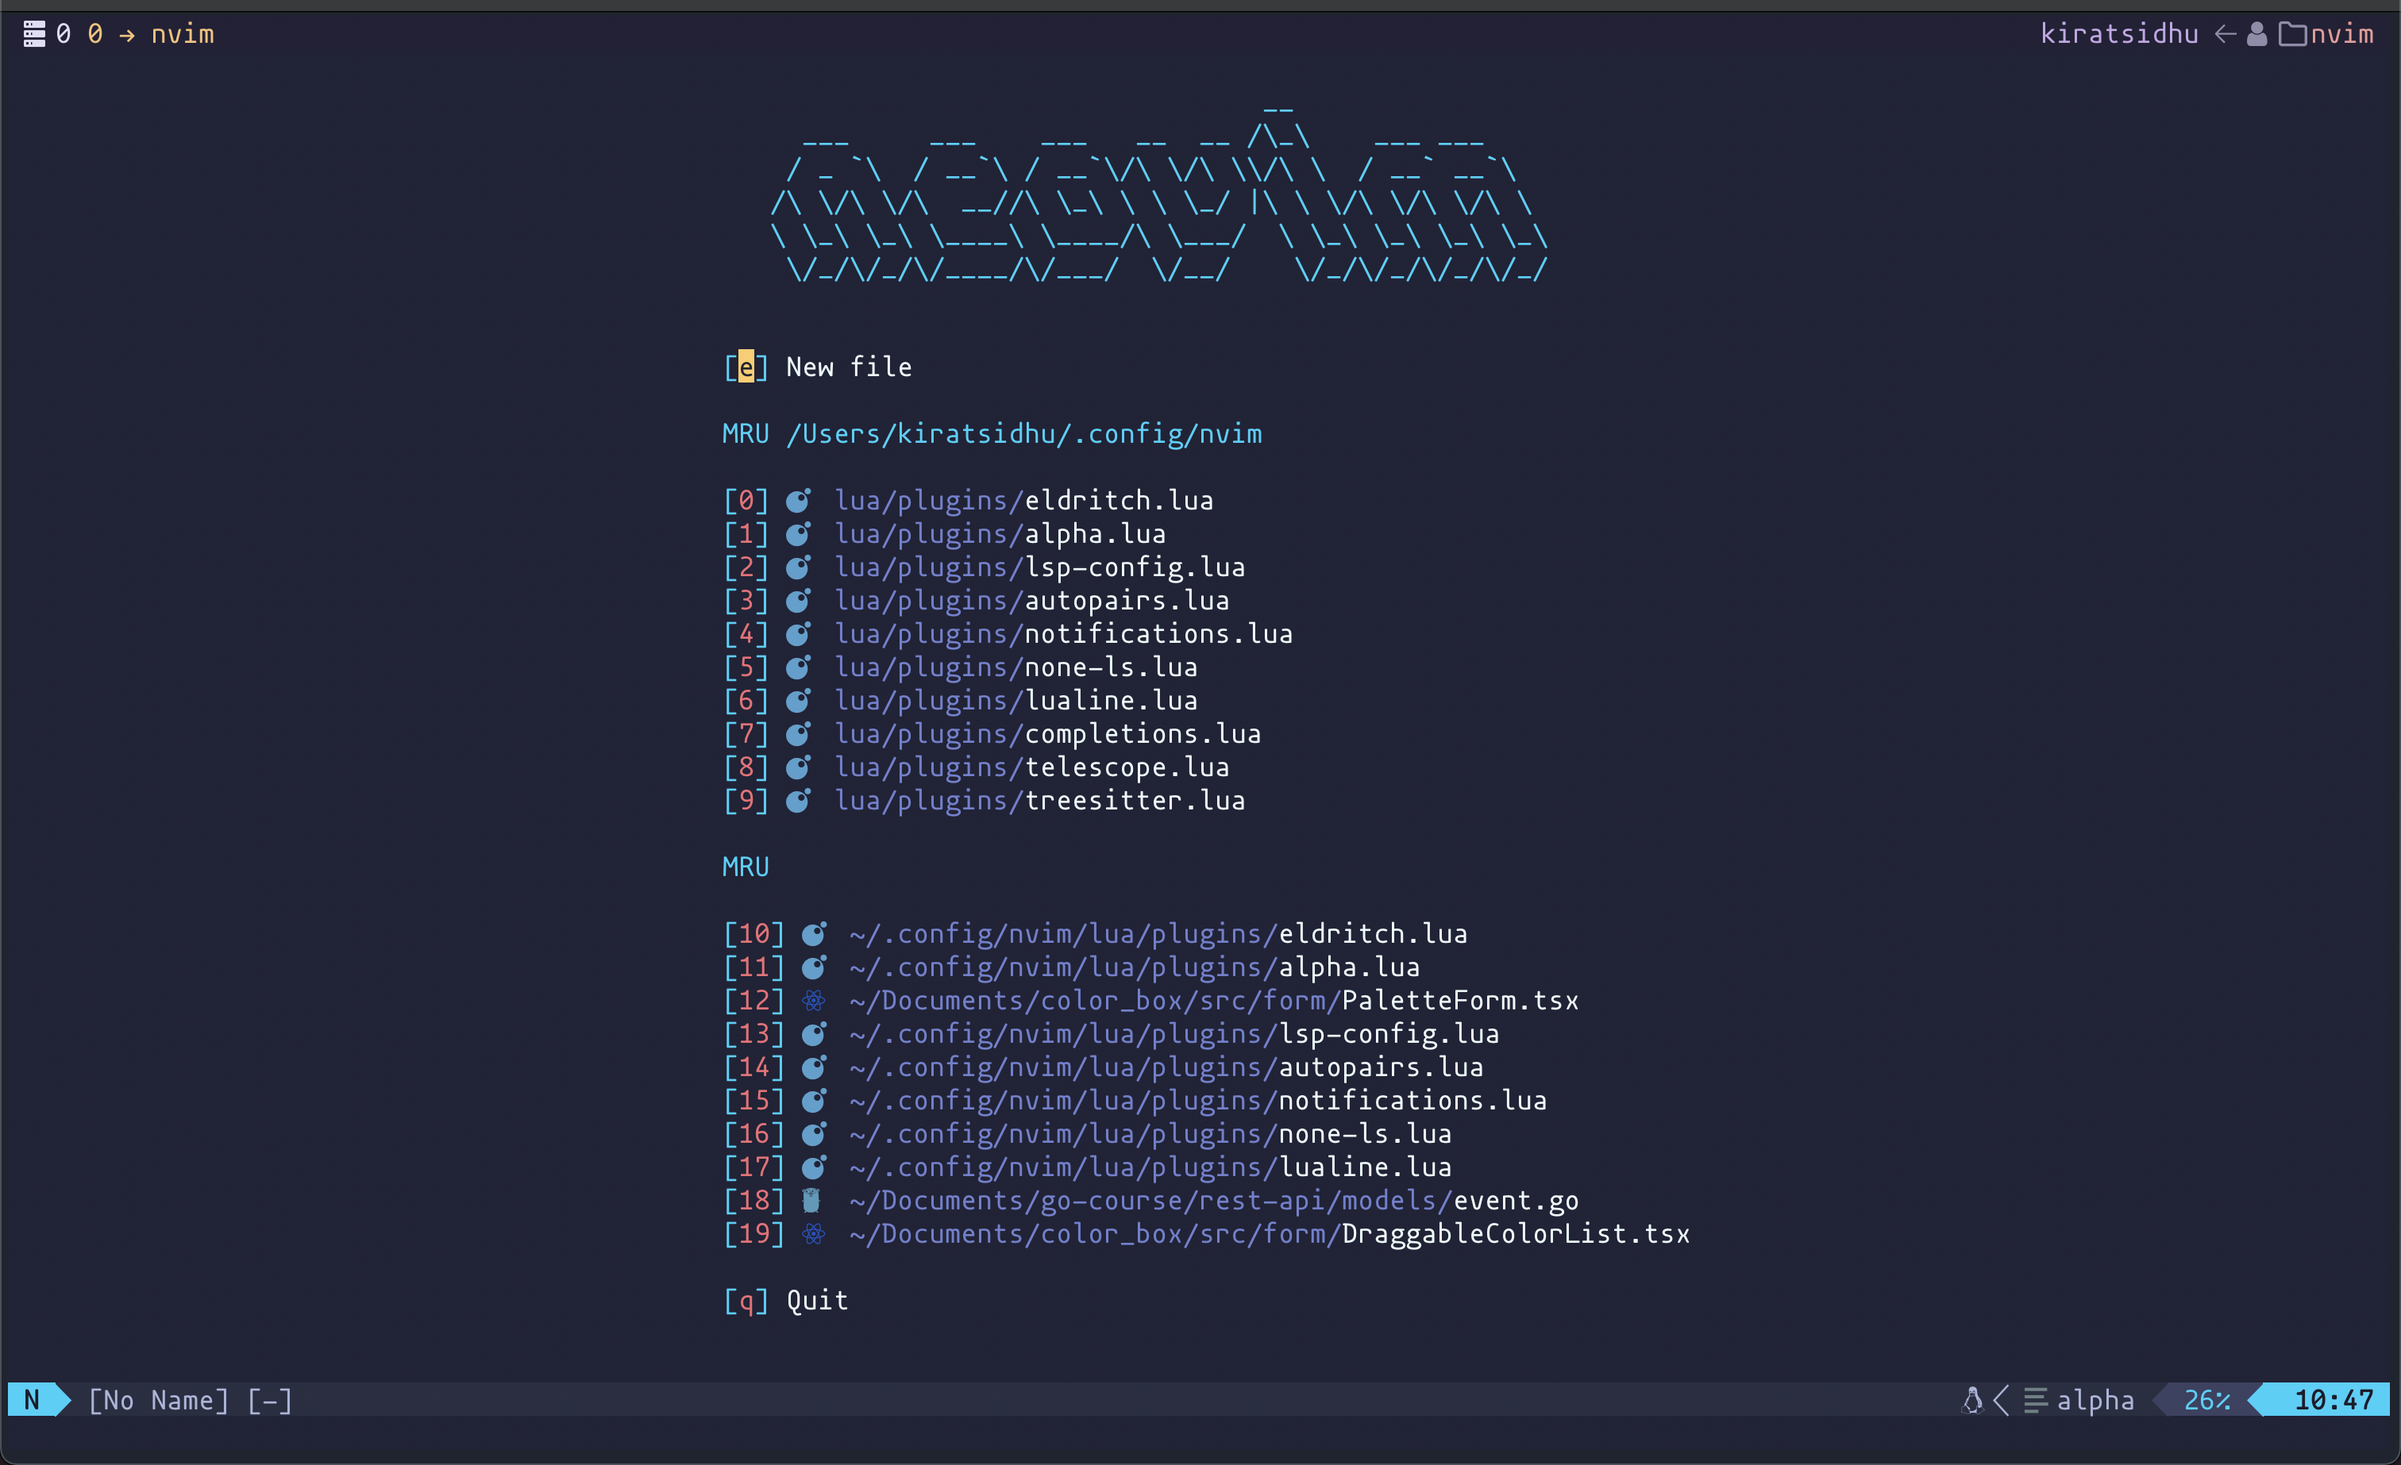
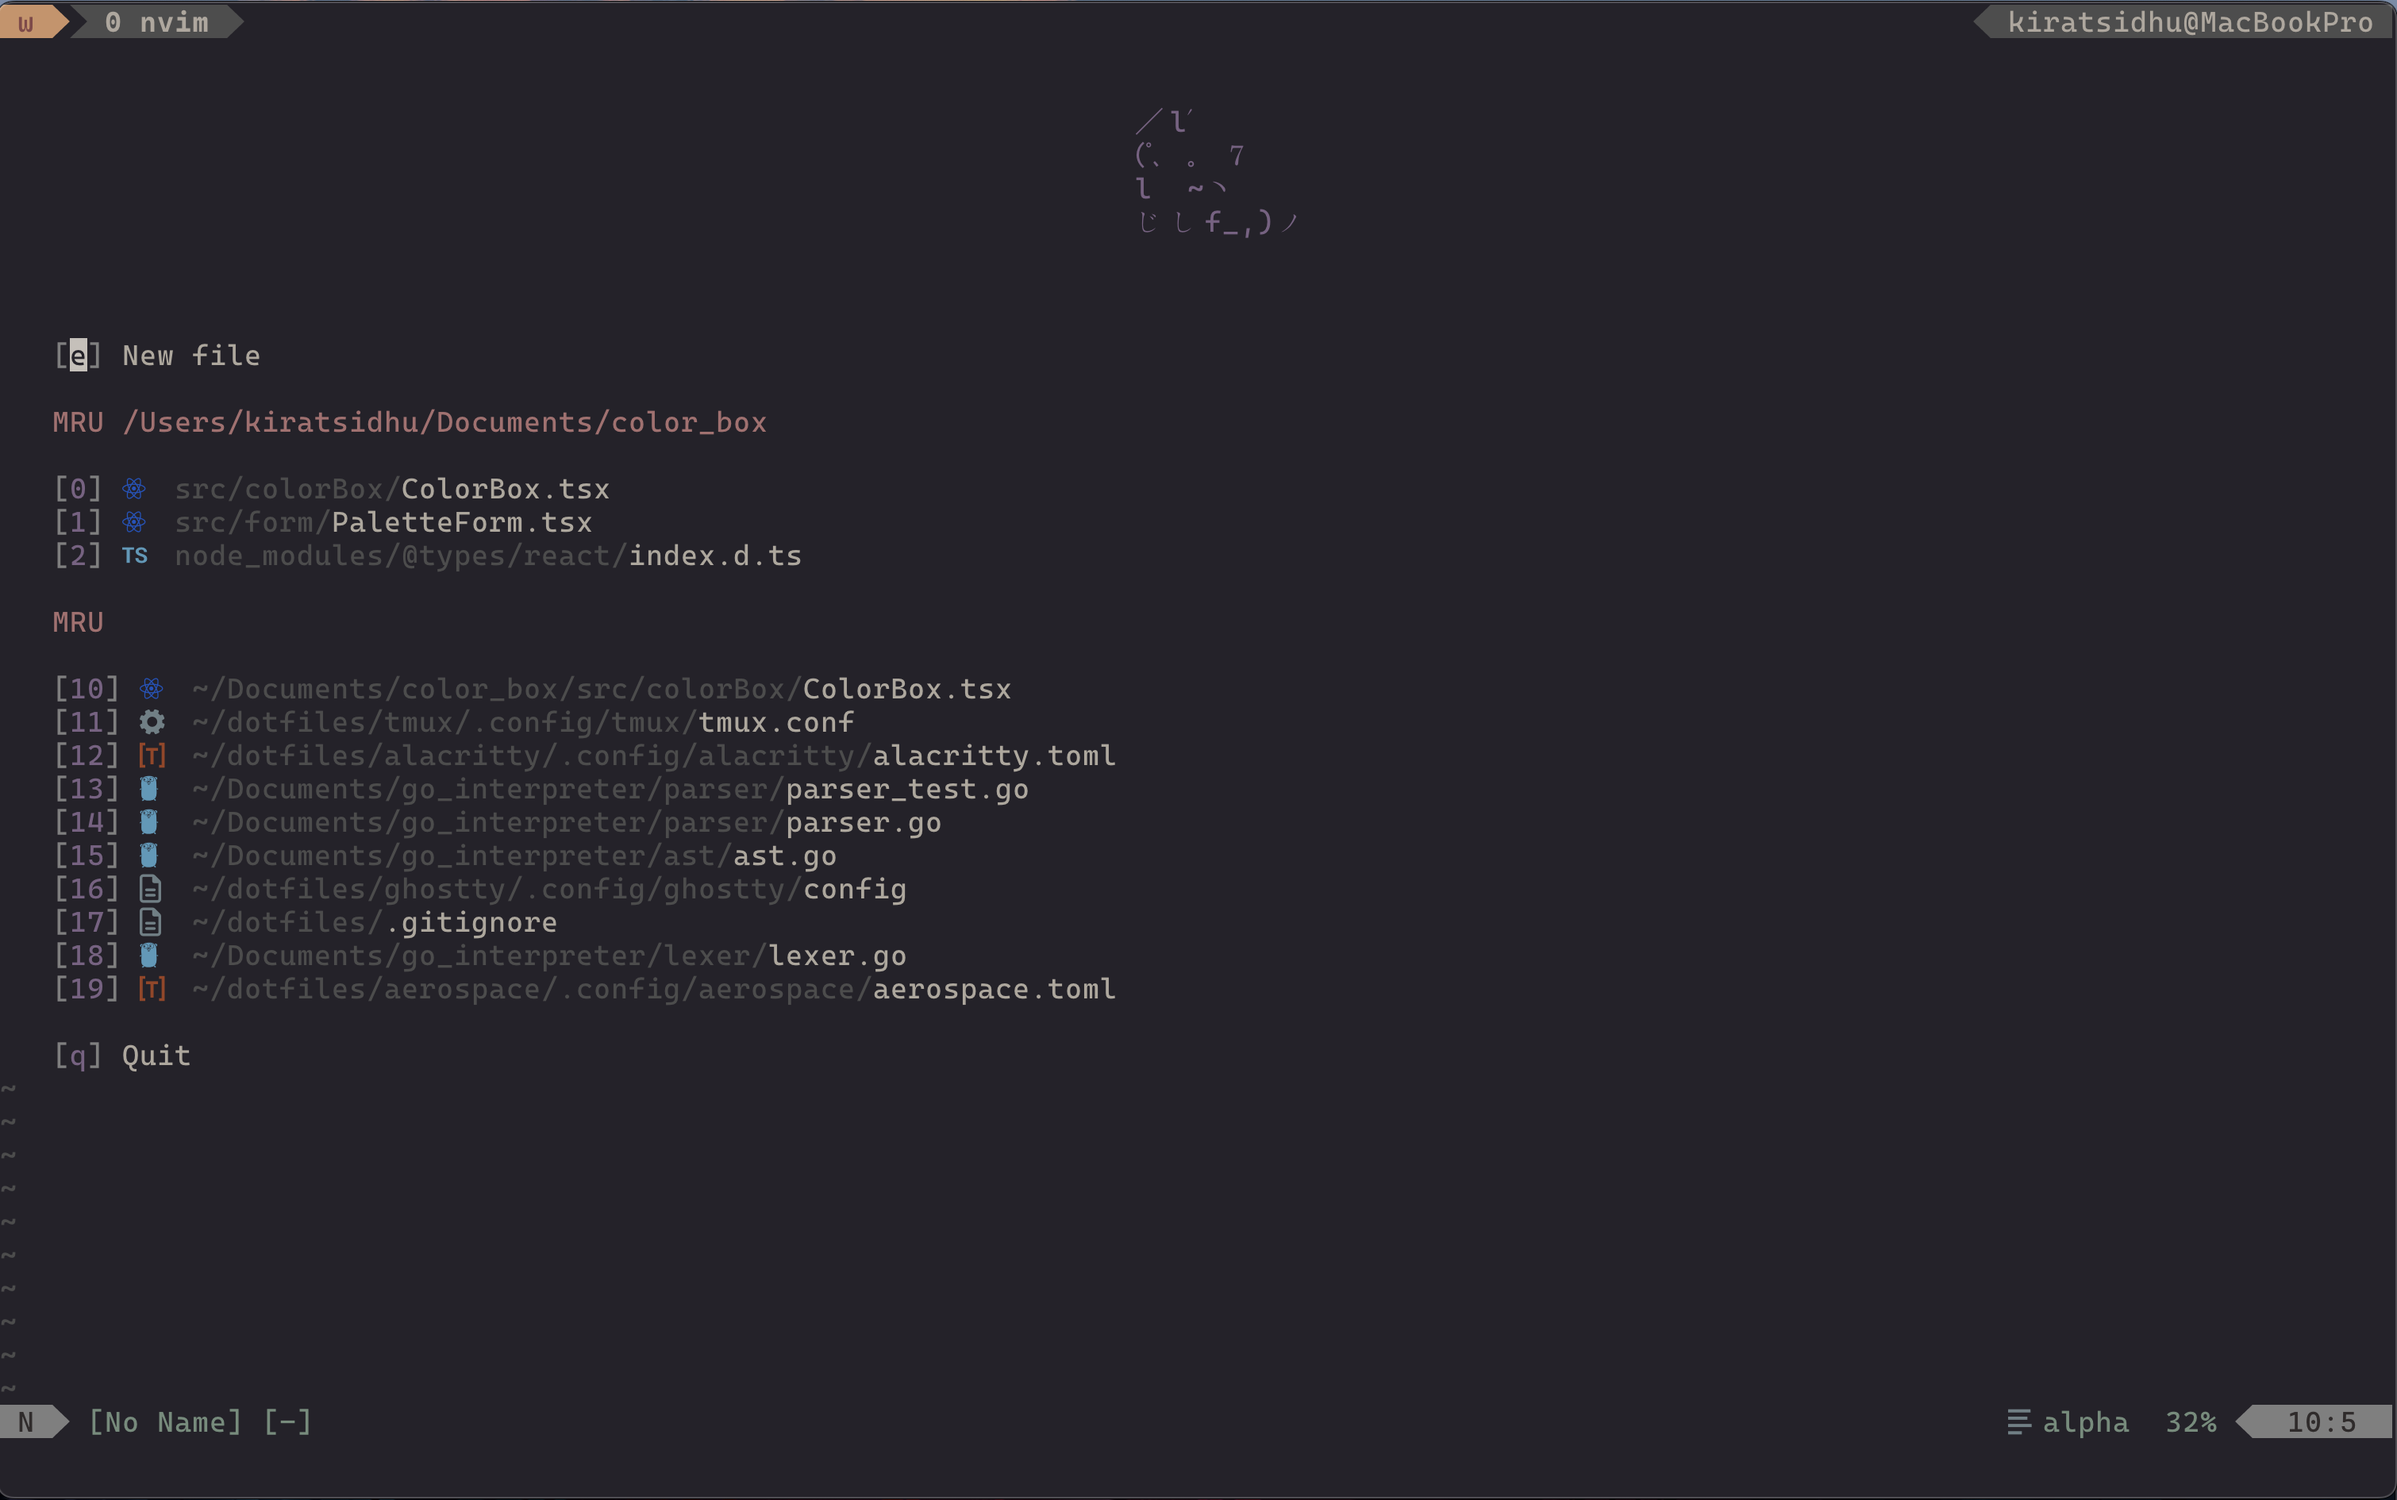
Remove unnecessary files and update images
- Update terminal images
- Remove unnecessary tmux plugins directory
- Hide header in ghostty

diff --git a/nvim/.config/nvim/README.md b/nvim/.config/nvim/README.md
@@ -3,9 +3,7 @@
 Been learning vim and this is an updated setup I enjoy using.
 I primarily work in typescript, react, golang. Been playing around with rust too.
 
-![nvim screenshot](../images/editor-start-menu.png)
-
-![editor screenshot](../images/editor-tabs.png)
+![nvim screenshot](../../../images/editor-start-menu.png)
 
 ## Plugins:
 
